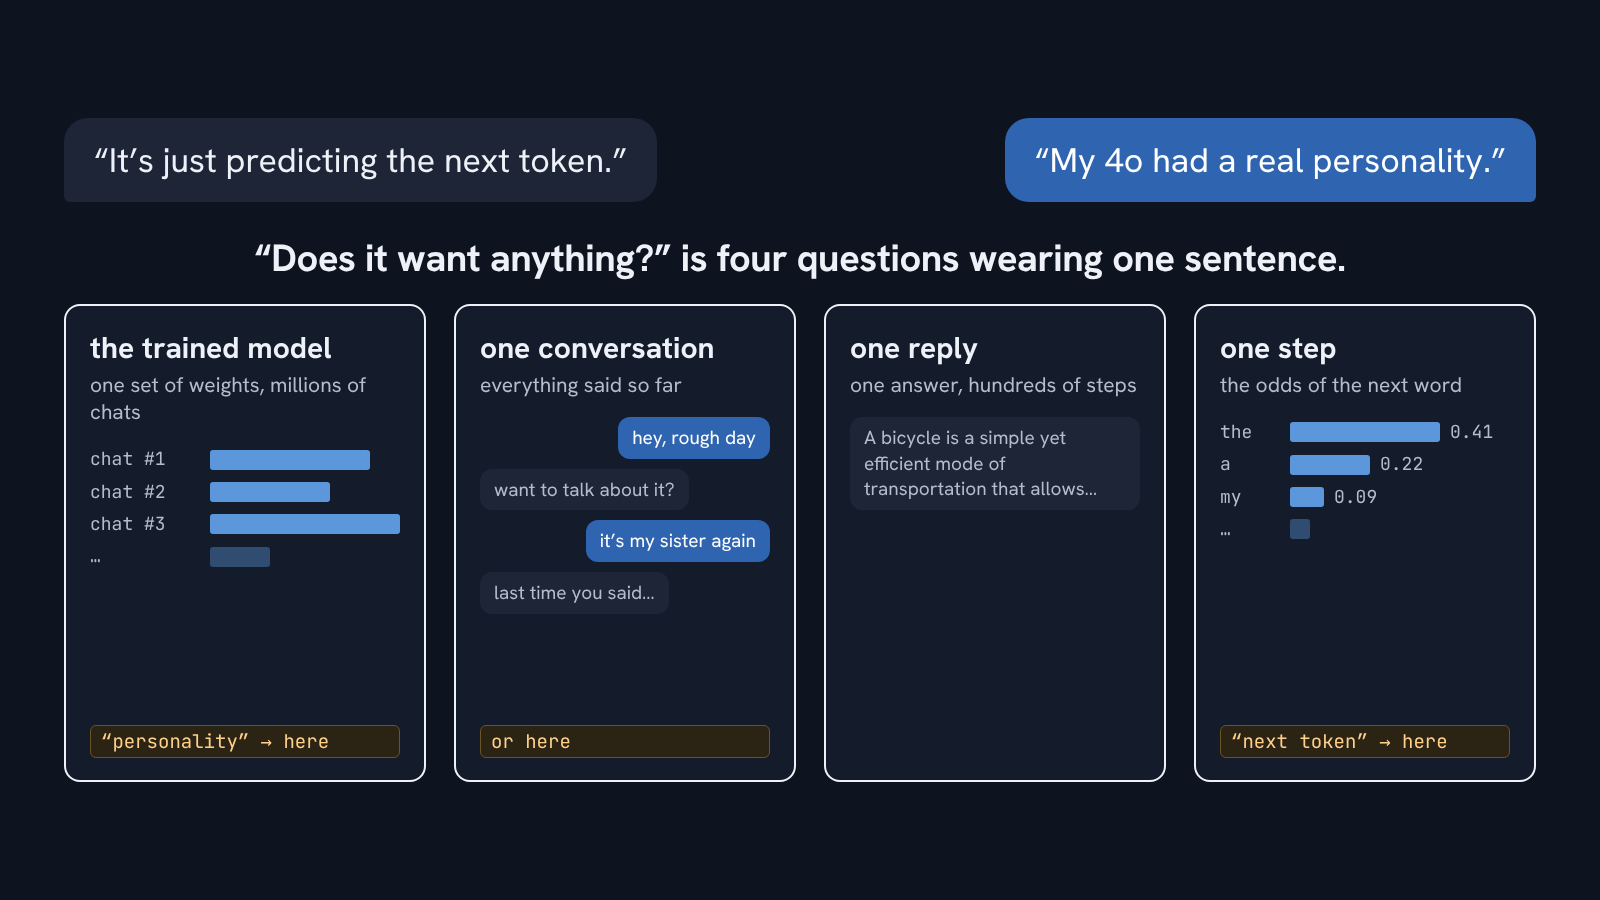
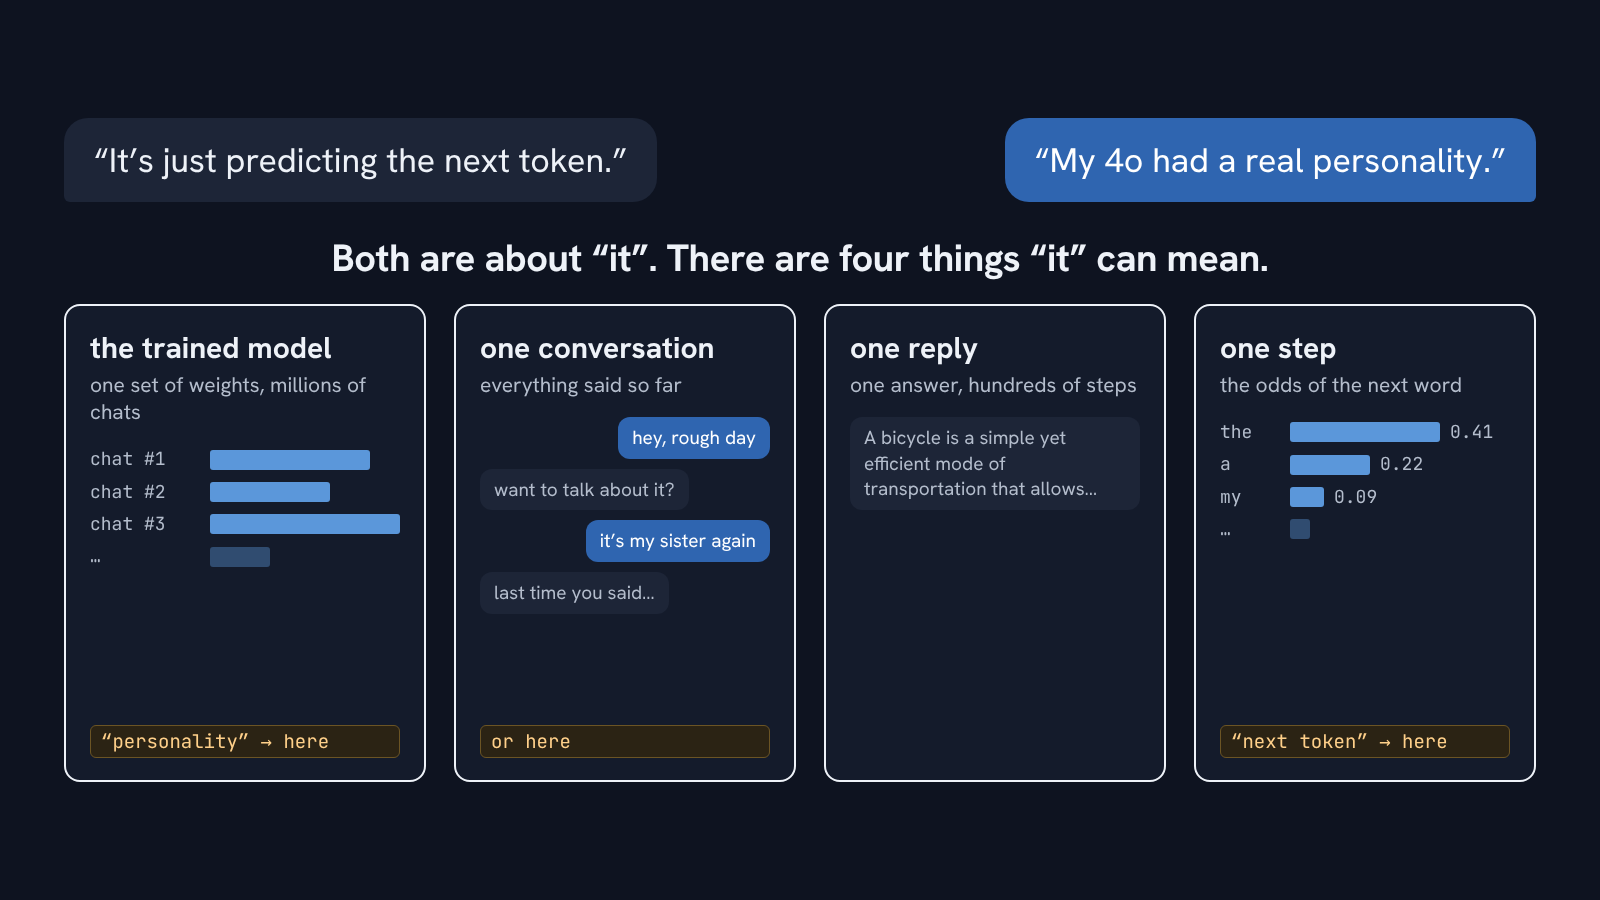
Post 1: tie the two quotes to the four objects through 'it'
Claude-Session: https://claude.ai/code/session_018ncHapUWtNmMmd8q3BmLKj

Changed region(s): [[0.1562, 0.2489, 0.8438, 0.3111]]

diff --git a/share/thread.html b/share/thread.html
@@ -42,7 +42,7 @@ body{margin:0;background:#777;font-family:var(--font);color:var(--ink)}
  <div><span class="bub a">“It’s just predicting the next token.”</span></div>
  <div style="text-align:right"><span class="bub u">“My 4o had a real personality.”</span></div>
 </div>
-<p class="ttl" style="text-align:center">“Does it want anything?” is four questions wearing one sentence.</p>
+<p class="ttl" style="text-align:center">Both are about “it”. There are four things “it” can mean.</p>
 <div class="objs">
  <div class="obj"><h3>the trained model</h3><p>one set of weights, millions of chats</p><div class="mini"><div class="bar"><span style="width:110px">chat #1</span><i style="width:160px"></i></div><div class="bar"><span style="width:110px">chat #2</span><i style="width:120px"></i></div><div class="bar"><span style="width:110px">chat #3</span><i style="width:190px"></i></div><div class="bar"><span style="width:110px">…</span><i style="width:60px;opacity:.4"></i></div></div><span class="tag">“personality” → here</span></div>
  <div class="obj"><h3>one conversation</h3><p>everything said so far</p><div class="mini"><span class="m u">hey, rough day</span><span class="m a">want to talk about it?</span><span class="m u">it’s my sister again</span><span class="m a">last time you said…</span></div><span class="tag">or here</span></div>

diff --git a/share/build_share.py b/share/build_share.py
@@ -54,7 +54,7 @@ c1='''
  <div><span class="bub a">“It’s just predicting the next token.”</span></div>
  <div style="text-align:right"><span class="bub u">“My 4o had a real personality.”</span></div>
 </div>
-<p class="ttl" style="text-align:center">“Does it want anything?” is four questions wearing one sentence.</p>
+<p class="ttl" style="text-align:center">Both are about “it”. There are four things “it” can mean.</p>
 <div class="objs">
  <div class="obj"><h3>the trained model</h3><p>one set of weights, millions of chats</p><div class="mini"><div class="bar"><span style="width:110px">chat #1</span><i style="width:160px"></i></div><div class="bar"><span style="width:110px">chat #2</span><i style="width:120px"></i></div><div class="bar"><span style="width:110px">chat #3</span><i style="width:190px"></i></div><div class="bar"><span style="width:110px">…</span><i style="width:60px;opacity:.4"></i></div></div><span class="tag">“personality” → here</span></div>
  <div class="obj"><h3>one conversation</h3><p>everything said so far</p><div class="mini"><span class="m u">hey, rough day</span><span class="m a">want to talk about it?</span><span class="m u">it’s my sister again</span><span class="m a">last time you said…</span></div><span class="tag">or here</span></div>

diff --git a/share/thread.md b/share/thread.md
@@ -3,7 +3,7 @@
 Six posts, one image each (`share/post-N.png`). Post 6 links the ledger once it is shared.
 
 **1 · post-1.png**
-Why is talking about AI so hard? Not because people are dumb. "Does it want anything?" is four questions wearing one sentence: about the trained model, one conversation, one reply, or the single step that picks the next word. Most arguments are two people answering different ones and not noticing.
+Why is talking about AI so hard? Not because people are dumb. Every claim about AI is about "it", and "it" can mean four things: the trained model, one conversation, one reply, or the single step that picks the next word. Most arguments are two people talking about different ones and not noticing.
 
 **2 · post-2.png**
 I spent two days with Claude, plus an audit from a GPT-6 run, sorting the published evidence into a grid. Rows: ways of looking (probes, behaviour, self-report, what a person meets). Columns: what you're looking at. Dark = peer-reviewed. Pale = someone's argument.
